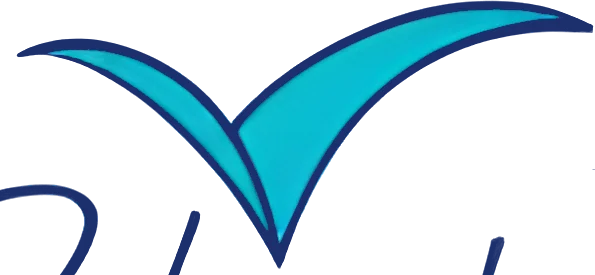
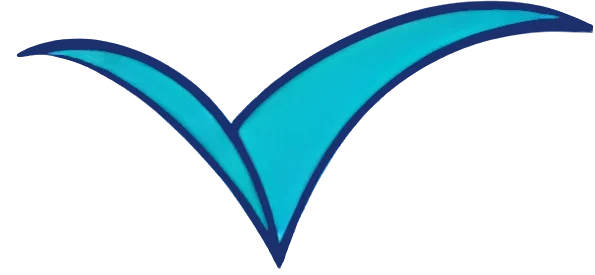
feat(heroi): tira a foto retocada e deixa a ave da logomarca como protagonista
A foto da Carla no herói estava suavizada demais e lia como gerada por IA.
Sem ela, o palco recebe `hero__stage--brand`: a ave fica no centro e a folha
de redação, o checklist e a caneta se reorganizam em volta. No tablet e no
celular o palco encolhe (o botão principal aparece sem rolar) e sai o degradê
que só servia para dissolver a base da foto e deixava uma emenda visível.

- ave.webp: removidos os pedaços das letras de "Palavra" que vinham grudados
  embaixo da ave.
- og-1200x630.jpg: card de compartilhamento refeito sem a foto.
- Fotos carla-hero-* removidas (sem uso).

Claude-Session: https://claude.ai/code/session_01WS58K86aah9w2iQC9auUyN

diff --git a/src/components/premium-v1.css b/src/components/premium-v1.css
@@ -190,6 +190,30 @@ html:has([data-org-site]) {
   .name-card span{font-size:12.5px;color:rgba(232,240,255,.75)}
   .pen{position:absolute;width:280px;left:-10%;bottom:31%;z-index:5;transform:rotate(-28deg);filter:drop-shadow(0 26px 22px rgba(0,0,0,.45))}
 
+  /* Palco sem foto: a ave da logomarca é a protagonista, e as peças descem um
+     pouco para ocupar o espaço que era da pessoa. */
+  .hero__stage--brand .stage__bird{top:6%}
+  .hero__stage--brand .sheet--back{top:30%;left:2%}
+  .hero__stage--brand .check-card{top:50%;right:-2%}
+  .hero__stage--brand .pen{bottom:20%;left:-6%}
+  @media (max-width:1100px){
+    .hero.hero .hero__stage--brand{height:540px}
+    .hero__stage--brand .stage__bird{width:80%;left:10%;top:6%}
+    .hero__stage--brand .sheet--back{left:7%;top:20%}
+    .hero__stage--brand .check-card{right:7%;top:40%}
+    .hero__stage--brand .pen{top:8%;right:8%;bottom:auto;left:auto}
+    /* O degradê só existia para dissolver a base da foto; sem ela, deixava
+       uma emenda visível com o fundo logo abaixo do palco. */
+    .hero__stage--brand::after{display:none}
+  }
+  @media (max-width:600px){
+    .hero.hero .hero__stage--brand{height:380px}
+    .hero__stage--brand .stage__bird{width:104%;left:-2%;top:8%}
+    .hero__stage--brand .sheet--back{left:-18px;top:22%}
+    .hero__stage--brand .check-card{right:10px;top:150px}
+    .hero__stage--brand .pen{top:26px;right:-4px}
+  }
+
   .hero__scroll{position:absolute;left:50%;bottom:26px;width:26px;height:42px;border-radius:14px;border:1.5px solid rgba(255,255,255,.4);z-index:6;transform:translateX(-50%)}
   .hero__scroll span{position:absolute;left:50%;top:8px;width:3px;height:8px;margin-left:-1.5px;border-radius:2px;background:#fff;animation:ops-scroll 1.8s infinite}
 

diff --git a/src/components/sections/HeroSection.tsx b/src/components/sections/HeroSection.tsx
@@ -8,9 +8,12 @@ import type { HeroSection as HeroData } from '@/content/types';
  * Herói: a seção mais pesada do template.
  *
  * Camadas do palco, de trás para frente: halo → ave gigante → anel → folha de
- * redação 3D → foto recortada da pessoa → card de vidro (checklist) → pílula
- * com nome → caneta. Os `data-depth` alimentam o parallax (ver
- * useStageParallax), e as classes float-* fazem a flutuação em loop.
+ * redação 3D → foto recortada da pessoa (opcional) → card de vidro
+ * (checklist) → pílula com nome → caneta. Sem foto, o palco recebe
+ * `hero__stage--brand`, que reposiciona as peças em torno da ave.
+ *
+ * Os `data-depth` alimentam o parallax (ver useStageParallax), e as classes
+ * float-* fazem a flutuação em loop.
  *
  * A folha, a caneta e os cards são decoração — ficam fora da árvore de
  * acessibilidade; só a foto da pessoa tem alt descritivo.
@@ -112,7 +115,8 @@ export function HeroSection({
           )}
         </div>
 
-        <div className="hero__stage" ref={stageRef}>
+        {/* Sem foto, a ave da logomarca vira a protagonista do palco. */}
+        <div className={`hero__stage${person?.image_url ? '' : ' hero__stage--brand'}`} ref={stageRef}>
           <div className="stage__halo" data-depth="-0.4" aria-hidden="true" />
           {symbolUrl && (
             // eslint-disable-next-line @next/next/no-img-element

diff --git a/src/content/site.ts b/src/content/site.ts
@@ -70,26 +70,11 @@ export const CONTEUDO: SiteContent = {
           value: 'Franca',
         },
       ],
-      person: {
-        alt: 'Professora Carla Bastianini, à frente da Ave, Palavra!, sorrindo, com a camiseta da escola',
-        name: 'Profa. Carla Bastianini',
-        role: 'À frente da Ave, Palavra!',
-        image_url: '/img/carla-hero-1200.webp',
-        image_sources: [
-          {
-            url: '/img/carla-hero-480.webp',
-            width: 480,
-          },
-          {
-            url: '/img/carla-hero-800.webp',
-            width: 800,
-          },
-          {
-            url: '/img/carla-hero-1200.webp',
-            width: 1200,
-          },
-        ],
-      },
+      // Sem foto no herói: a da Carla estava retocada demais ("muito IA",
+      // nas palavras do founder). O palco fica com a ave da logomarca como
+      // protagonista. Para voltar a ter uma foto aqui, use uma foto NATURAL,
+      // sem upscale nem suavização de pele, recortada sem fundo.
+      person: null,
       eyebrow: 'Redação · Português · Repertório',
       visible: true,
       checklist: {

diff --git a/README.md b/README.md
@@ -45,9 +45,10 @@ Pontos que vale conhecer:
 
 ## Imagens
 
-`public/img/` — já em WebP, nos tamanhos servidos. A foto do herói tem três
-larguras (`carla-hero-480/800/1200.webp`) usadas no `srcset`, porque ela é o
-maior elemento da primeira tela e vale baixar só o tamanho necessário.
+`public/img/` — já em WebP, nos tamanhos servidos. O herói está sem foto (a ave
+da logomarca é a protagonista). Para voltar a ter uma, preencha `hero.person`
+com uma foto natural, recortada sem fundo, em três larguras (480/800/1200) para
+o `srcset`: ela vira o maior elemento da primeira tela.
 
 `og-1200x630.jpg` é o card de compartilhamento do WhatsApp e das redes.
 
